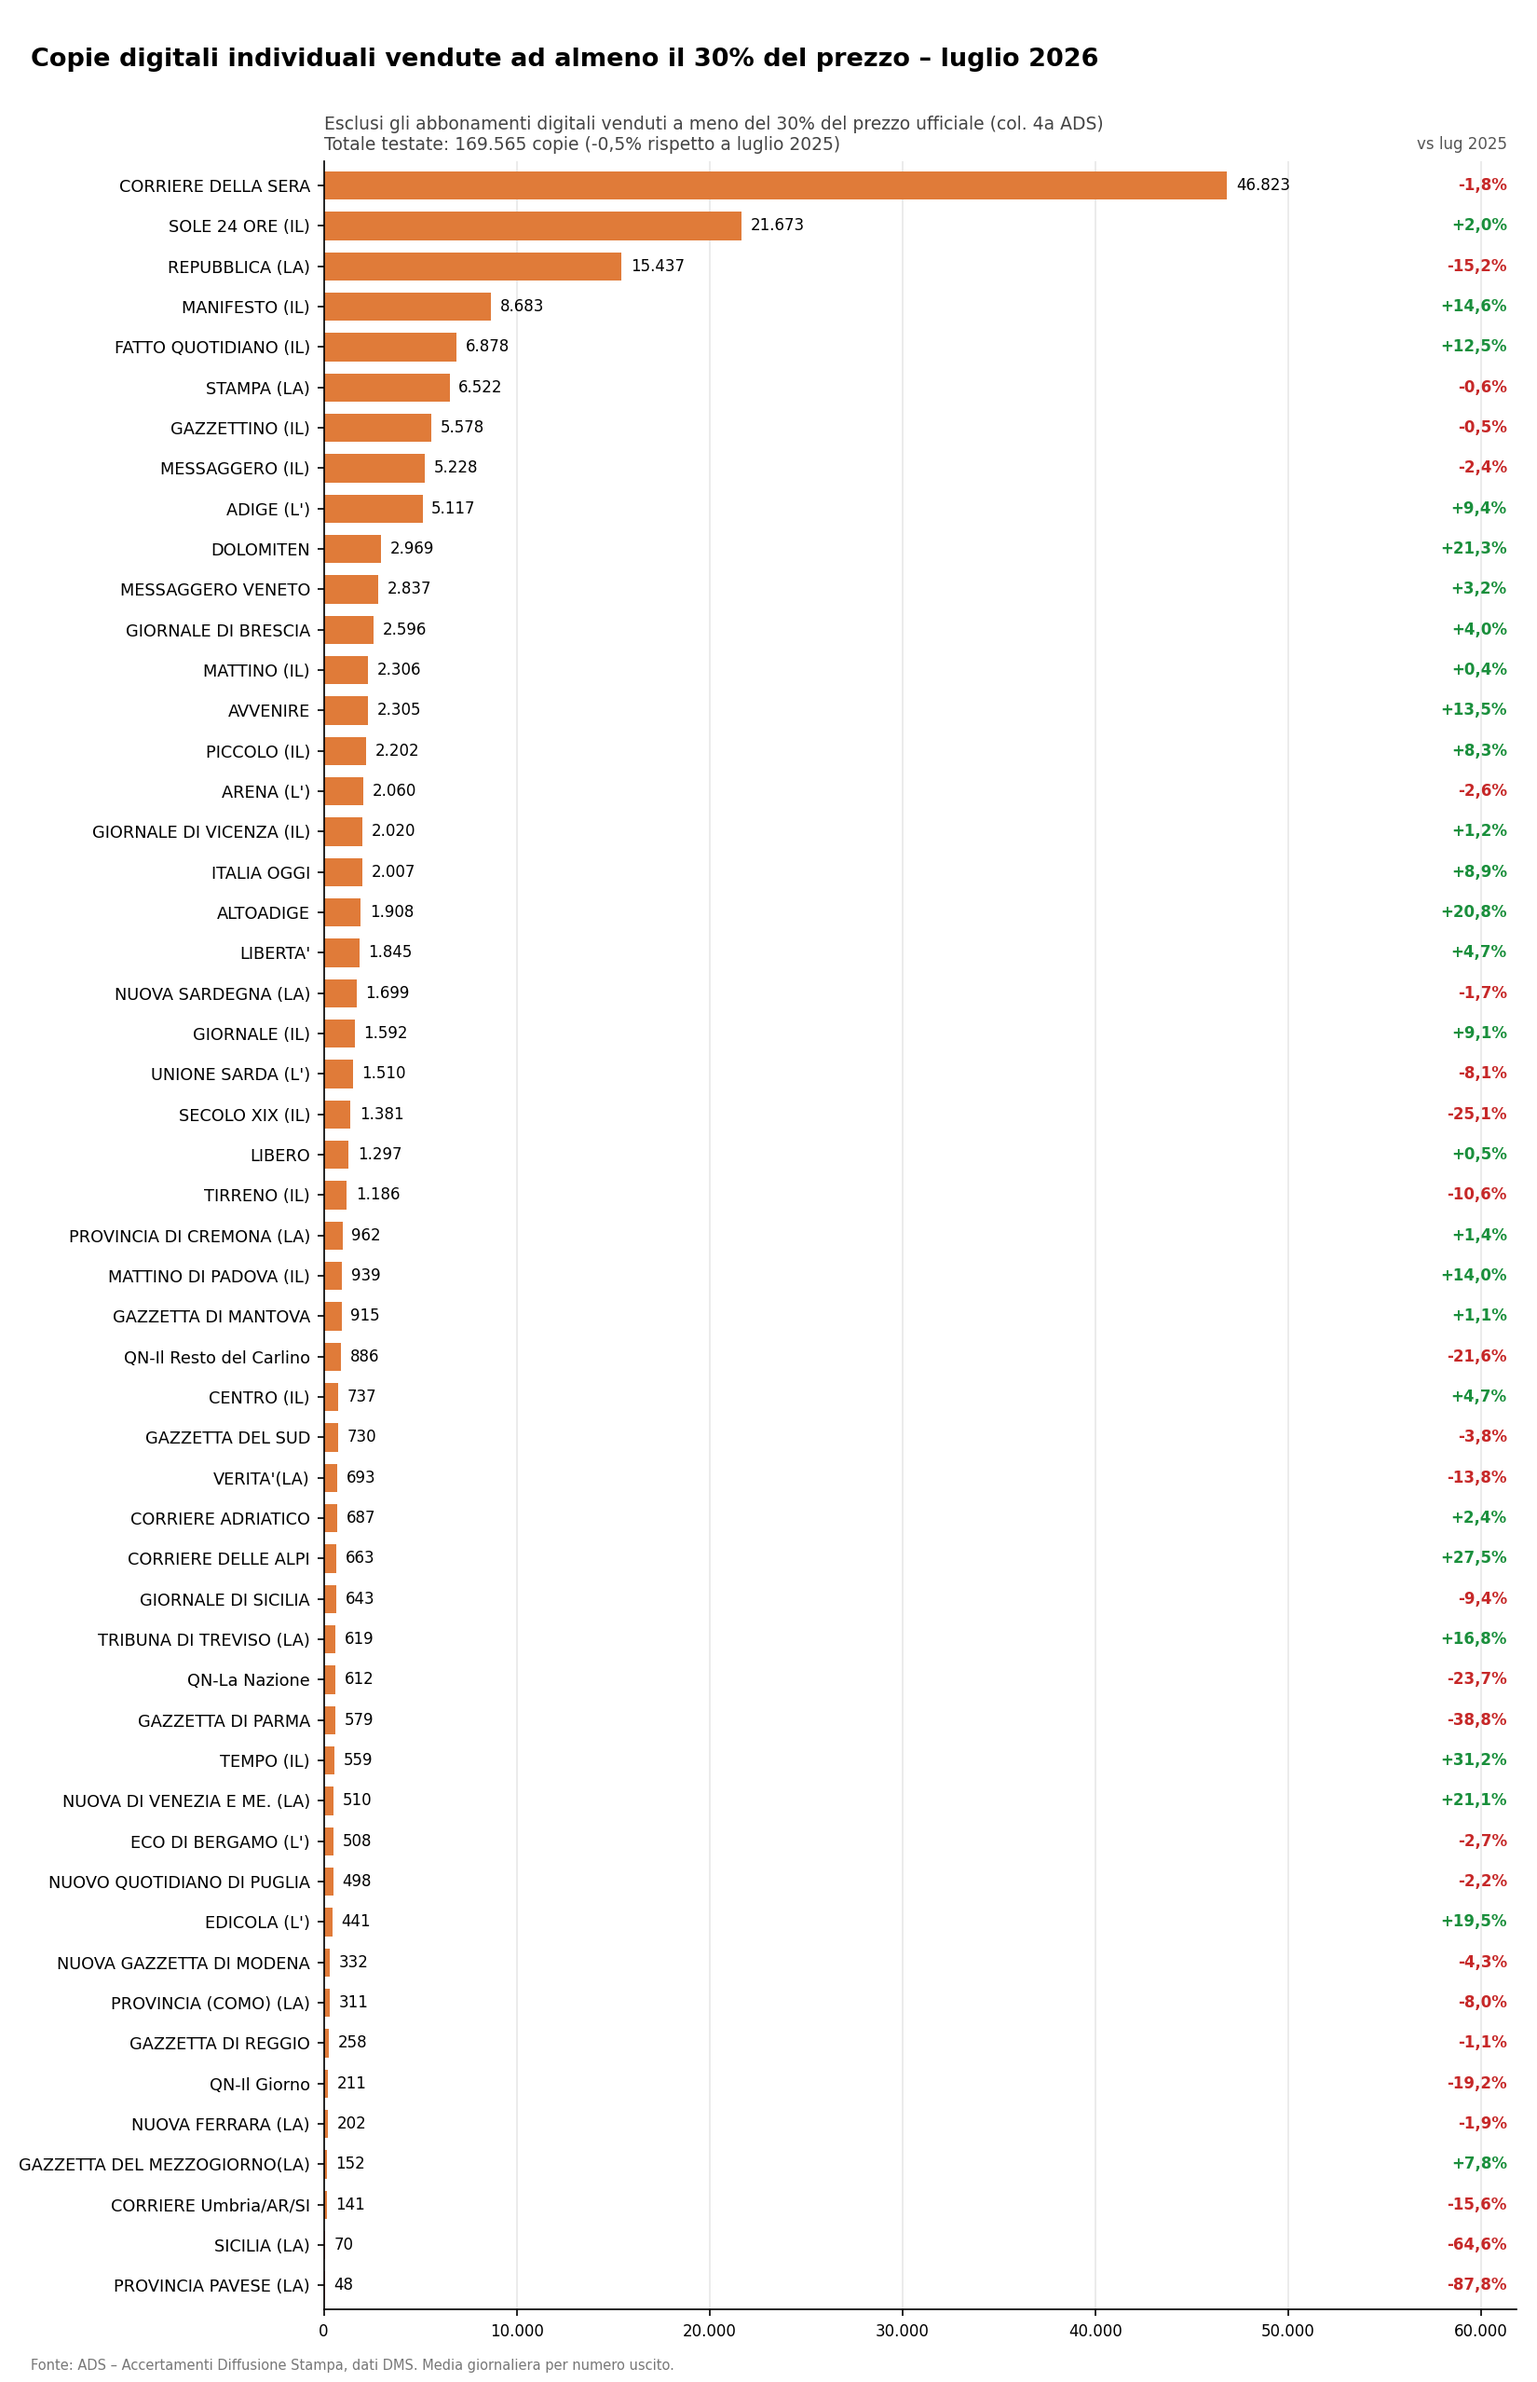
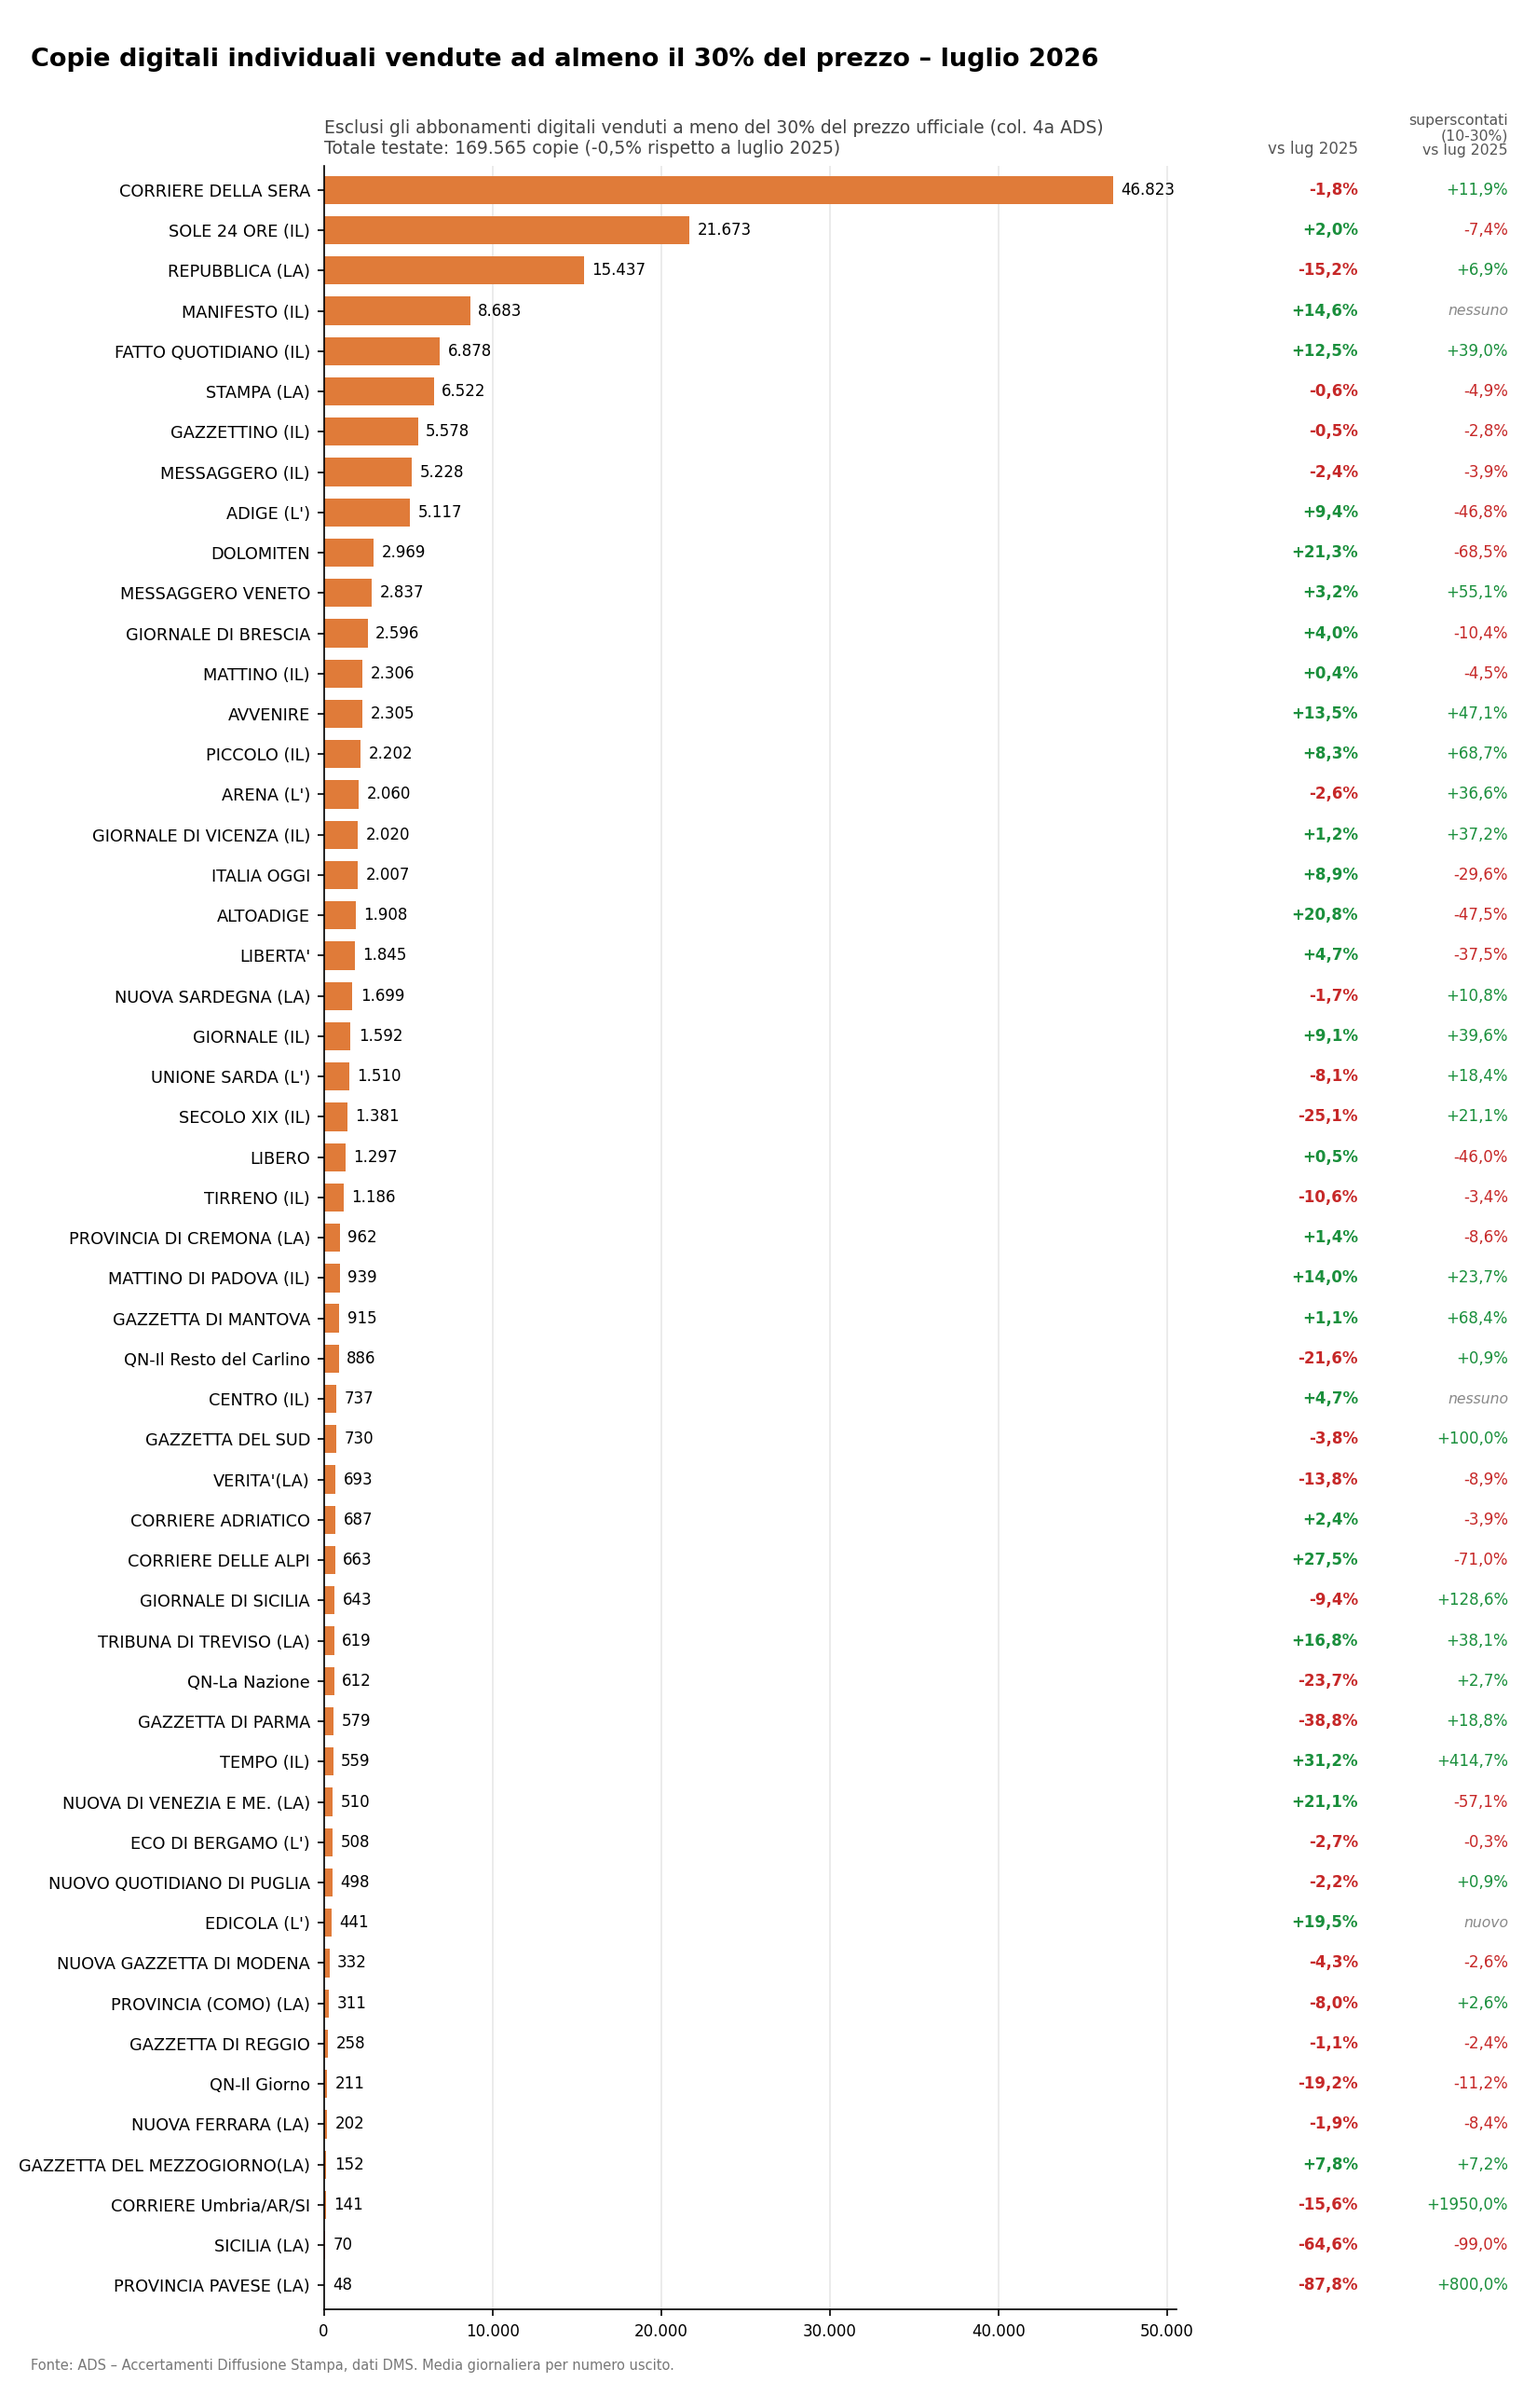
Grafico digitali: variazione degli abbonamenti superscontati (col. 4b)

diff --git a/ads_diffusione.py b/ads_diffusione.py
@@ -48,6 +48,7 @@ COL_MESE = 6
 COL_CARTACEE = 10        # 2  – Vendite individuali cartacee
 COL_ABB_CARTACEI = 11    # 3  – Abbonamenti individuali cartacei pagati
 COL_DIGITALI_30 = 12     # 4a – Vendite copie digitali individuali >= 30% del prezzo
+COL_DIGITALI_10_30 = 13  # 4b – Vendite copie digitali individuali tra il 10 e il 30% ("superscontate")
 HEADER_ROWS = 4
 
 # Quotidiani sportivi (e loro edizioni del lunedì) esclusi dai grafici
@@ -67,8 +68,14 @@ METRICHE = {
         "titolo": "Copie digitali individuali vendute ad almeno il 30% del prezzo",
         "sottotitolo": "Esclusi gli abbonamenti digitali venduti a meno del 30% del prezzo ufficiale (col. 4a ADS)",
         "colore": "#e07b39",
+        # colonna aggiuntiva con la variazione degli abbonamenti superscontati
+        "extra": ("superscontati", "superscontati\n(10-30%)"),
     },
 }
+
+# Serie calcolate solo per confronto (non hanno un grafico proprio)
+SERIE_EXTRA = {"superscontati": [COL_DIGITALI_10_30]}
+SERIE = {**{k: v["cols"] for k, v in METRICHE.items()}, **SERIE_EXTRA}
 
 
 def ultimo_mese_disponibile() -> tuple[int, int]:
@@ -110,8 +117,8 @@ def leggi(path: Path, mese: int, anno: int) -> pd.DataFrame:
     df = df[~df[COL_TESTATA].astype(str).str.contains(ESCLUDI)]
     out = pd.DataFrame({
         "testata": df[COL_TESTATA].astype(str).str.strip(),
-        **{k: df[v["cols"]].apply(pd.to_numeric, errors="coerce").sum(axis=1, min_count=1)
-           for k, v in METRICHE.items()},
+        **{k: df[cols].apply(pd.to_numeric, errors="coerce").sum(axis=1, min_count=1)
+           for k, cols in SERIE.items()},
     })
     if out.empty:
         raise RuntimeError(f"Nessuna riga per {mese}/{anno} in {path.name}")
@@ -122,7 +129,7 @@ def confronta(mese: int, anno: int, force: bool) -> pd.DataFrame:
     cur = leggi(scarica(mese, anno, force), mese, anno)
     prev = leggi(scarica(mese, anno - 1, force), mese, anno - 1)
     df = cur.merge(prev, on="testata", how="left", suffixes=("", "_prec"))
-    for k in METRICHE:
+    for k in SERIE:
         prec = df[f"{k}_prec"].where(df[f"{k}_prec"] > 0)
         df[f"{k}_var"] = (df[k] / prec - 1) * 100
     return df
@@ -142,20 +149,36 @@ def grafico(df: pd.DataFrame, chiave: str, mese: int, anno: int) -> Path:
     ax.set_yticks(list(y), d["testata"], fontsize=8.5)
     ax.set_ylim(-0.6, n - 0.4)
     xmax = d[chiave].max()
-    ax.set_xlim(0, xmax * 1.32)
+    extra = cfg.get("extra")
+    x_var = xmax * 1.31
+    x_extra = xmax * 1.50
+    ax.set_xlim(0, (x_extra if extra else x_var) + xmax * 0.01)
 
-    for yi, (val, var) in enumerate(zip(d[chiave], d[f"{chiave}_var"])):
-        ax.text(val + xmax * 0.01, yi, fmt_int(val), va="center", fontsize=8)
+    def scrivi_var(x, yi, var, bold=True):
         if pd.isna(var):
             txt, col = "n.d.", "#888888"
         else:
             txt = f"{var:+.1f}%".replace(".", ",")
             col = "#1a8f3c" if var >= 0 else "#c62828"
-        ax.text(xmax * 1.31, yi, txt, va="center", ha="right", fontsize=8,
-                color=col, fontweight="bold")
+        ax.text(x, yi, txt, va="center", ha="right", fontsize=8, color=col,
+                fontweight="bold" if bold else "normal")
 
-    ax.text(xmax * 1.31, n - 0.2, f"vs {MESI[mese][:3]} {anno - 1}", ha="right",
+    for yi, (_, r) in enumerate(d.iterrows()):
+        ax.text(r[chiave] + xmax * 0.01, yi, fmt_int(r[chiave]), va="center", fontsize=8)
+        scrivi_var(x_var, yi, r[f"{chiave}_var"])
+        if extra:
+            k = extra[0]
+            if not r[f"{k}_prec"]:
+                ax.text(x_extra, yi, "nuovo" if r[k] else "nessuno", va="center", ha="right",
+                        fontsize=7.5, color="#888888", style="italic")
+            else:
+                scrivi_var(x_extra, yi, r[f"{k}_var"], bold=False)
+
+    ax.text(x_var, n - 0.2, f"vs {MESI[mese][:3]} {anno - 1}", ha="right",
             va="bottom", fontsize=8, color="#555555")
+    if extra:
+        ax.text(x_extra, n - 0.2, f"{extra[1]}\nvs {MESI[mese][:3]} {anno - 1}", ha="right",
+                va="bottom", fontsize=7.5, color="#555555", linespacing=1.1)
 
     tot, tot_prec = d[chiave].sum(), df.loc[d.index, f"{chiave}_prec"].sum()
     var_tot = (tot / tot_prec - 1) * 100 if tot_prec else float("nan")
@@ -168,6 +191,9 @@ def grafico(df: pd.DataFrame, chiave: str, mese: int, anno: int) -> Path:
     ax.spines[["top", "right"]].set_visible(False)
     ax.xaxis.set_major_formatter(matplotlib.ticker.FuncFormatter(lambda v, _: fmt_int(v)))
     ax.tick_params(axis="x", labelsize=8)
+    # l'asse si ferma sotto le barre, non sotto le colonne delle variazioni
+    ax.set_xticks([t for t in ax.get_xticks() if 0 <= t <= xmax * 1.08])
+    ax.spines["bottom"].set_bounds(0, xmax * 1.08)
     ax.grid(axis="x", alpha=0.3)
     ax.set_axisbelow(True)
     fig.text(0.02, 0.005, "Fonte: ADS – Accertamenti Diffusione Stampa, dati DMS. "

diff --git a/README.md b/README.md
@@ -3,7 +3,7 @@
 Ogni mese scarica da [ADS](https://www.adsnotizie.it/Dati/DMS_Page) i dati DMS dei quotidiani e genera due grafici in `grafici/`:
 
 - **`AAAA_MM_individuale_pagata.png`**: diffusione media giornaliera individuale pagata (cartacee + abbonamenti cartacei + digitali vendute ad almeno il 30% del prezzo, col. 2+3+4a ADS) e variazione % sullo stesso mese dell'anno precedente
-- **`AAAA_MM_digitale_30.png`**: sole copie digitali individuali vendute ad almeno il 30% del prezzo ufficiale (col. 4a ADS)
+- **`AAAA_MM_digitale_30.png`**: sole copie digitali individuali vendute ad almeno il 30% del prezzo ufficiale (col. 4a ADS), con accanto la variazione degli abbonamenti superscontati (10-30% del prezzo, col. 4b)
 - **`AAAA_MM_dati.csv`**: i numeri usati nei grafici
 
 Sono esclusi i quotidiani sportivi. Gli Excel originali vengono salvati in `dati/`.
